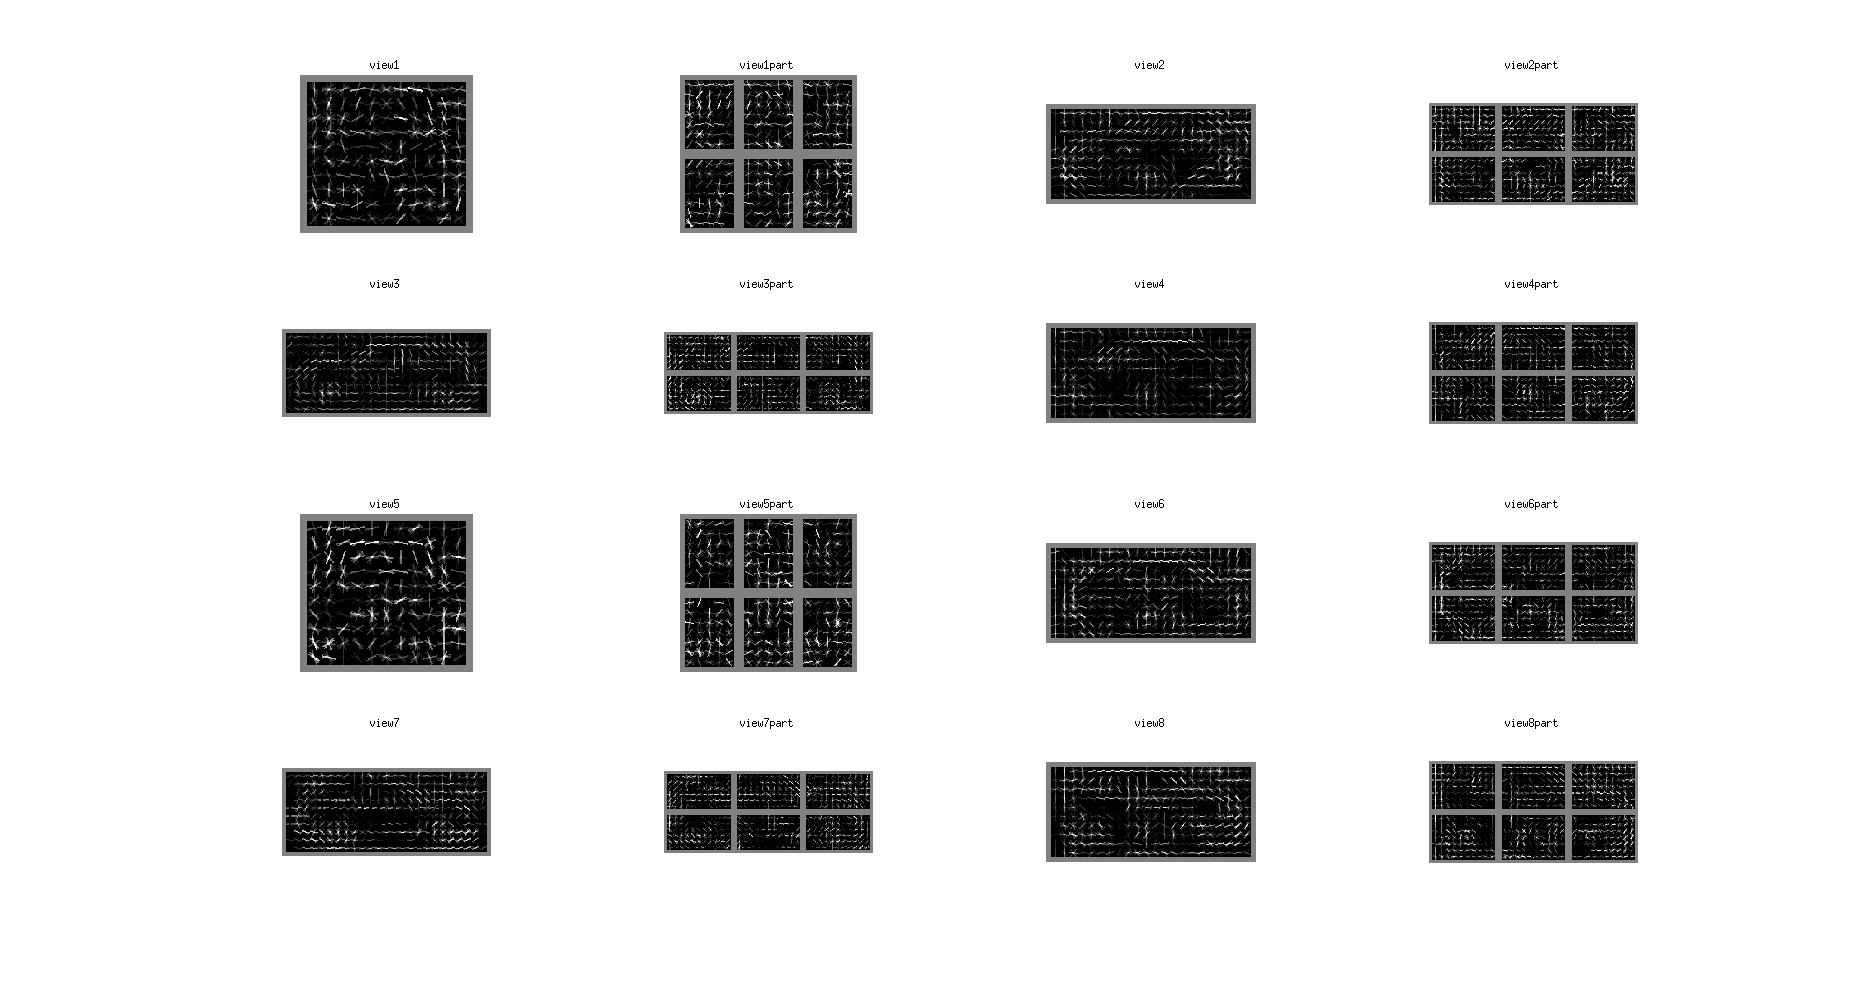
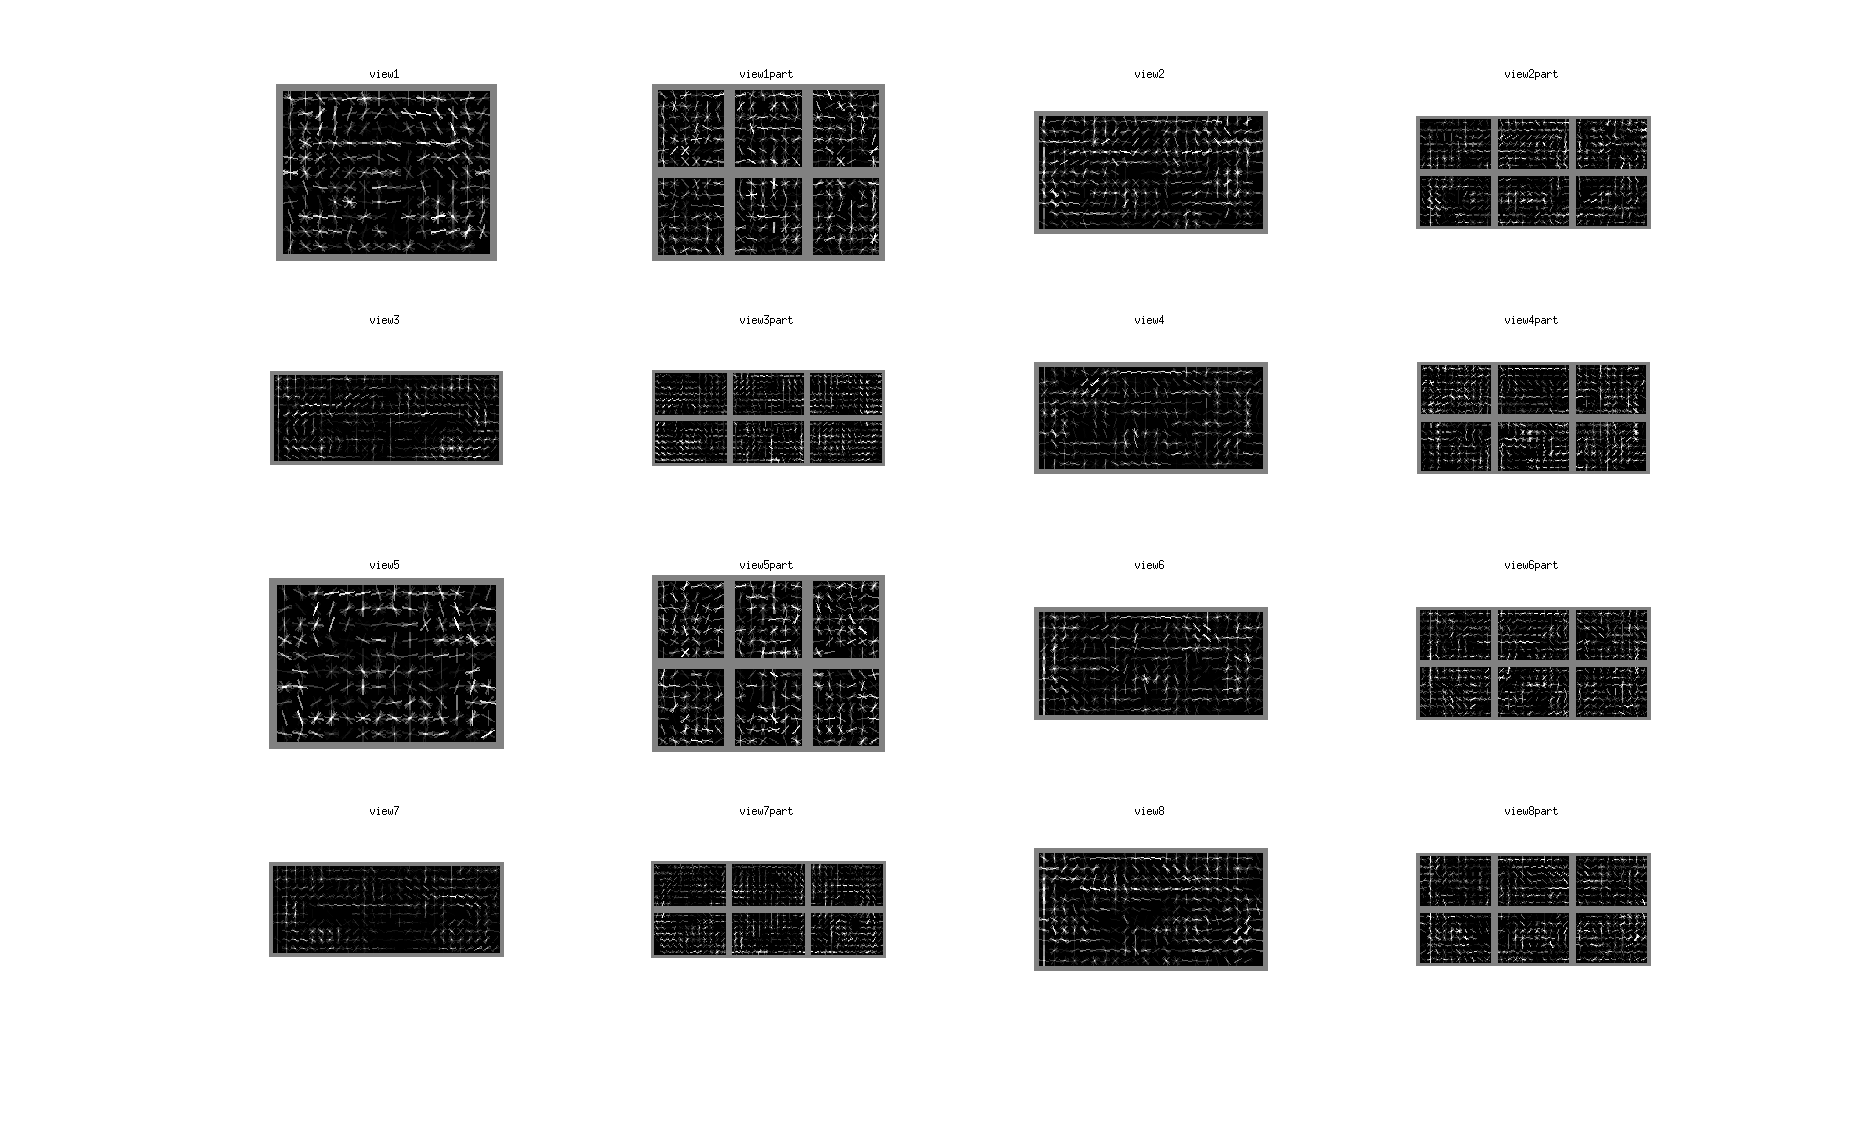
save constraints to one file and smaller templates

diff --git a/Main/model_train_voxel.m b/Main/model_train_voxel.m
@@ -51,11 +51,7 @@ neg = [];
 
 % write training samples to file
 fprintf('Writing wrapped positives\n');
-if is_flip
-    filename = sprintf('%s/%s_wrap_flip.dat', data_dir, cls_data);
-else
-    filename = sprintf('%s/%s_wrap.dat', data_dir, cls_data);
-end
+filename = sprintf('%s/%s_wrap.dat', data_dir, cls_data);
 write_data(filename, pos, neg);
 
 
@@ -75,17 +71,13 @@ neg = [];
 
 % write training samples to file
 fprintf('Writing unwrapped positives\n');
-if is_flip
-    filename = sprintf('%s/%s_unwrap_flip.dat', data_dir, cls_data);    
-else
-    filename = sprintf('%s/%s_unwrap.dat', data_dir, cls_data);
-end
+filename = sprintf('%s/%s_unwrap.dat', data_dir, cls_data);
 write_data(filename, pos, neg);
 
 
-% % sample negative training images for VOC pascal
+% sample negative training images for VOC pascal
 % fprintf('Randomize negative PASCAL samples\n');
-% maxnum = 96;
+% maxnum = inf;
 % neg = rand_negative(cls, maxnum);
 % fprintf('%d negative samples\n', numel(neg));
 %  
@@ -140,8 +132,8 @@ for i = 1:N
         % filtering objects
         if strcmp(cls, object.class) == 0 || object.viewpoint.distance == 0 || ...
                 (isfield(object, 'difficult') == 1 && object.difficult == 1) || ...
-                (isempty(subtype) == 0 && strcmp(object.subtype, subtype) == 0) || ...  
-                is_occld_trunc(object) == 1
+                (isempty(subtype) == 0 && strcmp(object.subtype, subtype) == 0)  
+%                 is_occld_trunc(object) == 1
 %                 is_trunc(object) == 1 || ...
 %                 object.viewpoint.distance > cads{1}.distance(end) || ...
 %                 object.viewpoint.distance < cads{1}.distance(1)           
@@ -208,20 +200,21 @@ for i = 1:N
         if is_wrap
             bbox = generate_bbox(cad, part2d, part_label);
         else
-            bbox = [object.bbox(1) object.bbox(2) object.bbox(3)-object.bbox(1) object.bbox(4)-object.bbox(2)];
+            bbox = [x1 y1 x2-x1 y2-y1];
         end
         
         % wrap positive
-        if is_wrap == 0 || is_occld_trunc(object) == 1
+        if is_wrap == 0
             im = I;
             sx = 1;
             sy = 1;
         else
-            padx = (object.bbox(3)-object.bbox(1)) / 10;
-            pady = (object.bbox(4)-object.bbox(2)) / 10;
-            sx = bbox(3) / (object.bbox(3)-object.bbox(1) + padx);
+            bbox_wrap = [x1 y1 x2 y2];
+            padx = (bbox_wrap(3)-bbox_wrap(1)) / 10;
+            pady = (bbox_wrap(4)-bbox_wrap(2)) / 10;
+            sx = bbox(3) / (bbox_wrap(3)-bbox_wrap(1) + padx);
             numcols = round(size(I,2) * sx);
-            sy = bbox(4) / (object.bbox(4)-object.bbox(2) + pady);
+            sy = bbox(4) / (bbox_wrap(4)-bbox_wrap(2) + pady);
             numrows = round(size(I,1) * sy);
             im = imresize(I, [numrows numcols], 'bilinear');
 

diff --git a/Struct_SVM/svm_struct_main.c b/Struct_SVM/svm_struct_main.c
@@ -52,7 +52,7 @@ int is_confile_same(char* confile_read, char* confile_write);
 int main (int argc, char* argv[])
 {
   FILE *fp;
-  int i, cad_num, iter, flag, num;
+  int i, cad_num, iter, num;
   char filename[256], filename_data[256];
   CAD **cads, *cad;
   SAMPLE sample, sample_negative;  /* training sample */
@@ -126,7 +126,7 @@ int main (int argc, char* argv[])
   }
   MPI_Barrier(MPI_COMM_WORLD);
 
-  sprintf(struct_parm.confile_write, "%s_wrap.con", struct_parm.cls);
+  sprintf(struct_parm.confile_write, "%s.con", struct_parm.cls);
   sprintf(filename, "%s_wrap.mod", struct_parm.cls);
   sprintf(filename_data, "tmp/wrap.dat");
 
@@ -180,7 +180,7 @@ int main (int argc, char* argv[])
   struct_parm.is_wrap = 0;
   for(iter = 0; iter < struct_parm.latent_positive; iter++)
   {
-    sprintf(struct_parm.confile_write, "%s_latent_%d.con", struct_parm.cls, iter);
+    sprintf(struct_parm.confile_write, "%s.con", struct_parm.cls);
     sprintf(filename, "%s_latent_%d.mod", struct_parm.cls, iter);
     sprintf(filename_data, "tmp/latent_%d.dat", iter);
 
@@ -236,7 +236,7 @@ int main (int argc, char* argv[])
   for(iter = 0; iter < struct_parm.hard_negative; iter++)
   {
     /* file name for constraints and model */
-    sprintf(struct_parm.confile_write, "%s_hard_%d.con", struct_parm.cls, iter);
+    sprintf(struct_parm.confile_write, "%s.con", struct_parm.cls);
     sprintf(filename, "%s_hard_%d.mod", struct_parm.cls, iter);
     sprintf(filename_data, "tmp/hard_%d.dat", iter);
 
@@ -278,15 +278,12 @@ int main (int argc, char* argv[])
         write_struct_model(modelfile, &structmodel, &struct_parm);
         printf("Train model hard iter %d/%d done\n", iter, struct_parm.hard_negative);
       }
-      flag = is_confile_same(struct_parm.confile_read, struct_parm.confile_write);
       strcpy(struct_parm.confile_read, struct_parm.confile_write);
       MPI_Barrier(MPI_COMM_WORLD);
         
       /* free the structmodel and samples */
       free_struct_model(structmodel);
       free_struct_sample(sample);
-      if(flag == 1)
-        break;
     }
   }
 

diff --git a/Main/display_result.m b/Main/display_result.m
@@ -1,9 +1,9 @@
 function display_result
 
 cls = 'car';
-cls_data = 'val';
-dat_file = sprintf('data/%s.tst', cls_data);
-pre_file = sprintf('data/%s.pre', cls_data);
+cls_data = 'car';
+dat_file = sprintf('data_debug/%s_unwrap.dat', cls_data);
+pre_file = sprintf('data_debug/%s_unwrap.pre', cls_data);
 
 % load cad model
 cad_file = sprintf('../Geometry/Voxel/%s.mat', cls);
@@ -46,7 +46,7 @@ for i = 1:N
     hold on;
 
     til = sprintf('%d: ', i);
-    for k = 1:min(2, num)
+    for k = 1:min(1, num)
         % get predicted bounding box
         bbox_pr = examples{k}.bbox;
         if example.object_label == 1

diff --git a/Geometry/Voxel/add_parts.m b/Geometry/Voxel/add_parts.m
@@ -18,8 +18,8 @@ cad.occ_per = 0.8;
 cad.azimuth = azimuth;
 cad.elevation = elevation;
 cad.distance = distance;
-cad.distance_front_root = find_distance_front(cad, 19);
-cad.distance_front_part = find_distance_front(cad, 13);
+cad.distance_front_root = find_distance_front(cad, 30);
+cad.distance_front_part = find_distance_front(cad, 20);
 
 % first try the whole object as a part
 view_num = cad.view_num;

diff --git a/Main/show_annotation_file.m b/Main/show_annotation_file.m
@@ -1,7 +1,7 @@
 % show image with annotation
 function show_annotation_file(cls)
 
-path_file = sprintf('data/%s_unwrap_flip.dat', cls);
+path_file = sprintf('data/%s_unwrap.dat', cls);
 
 % load CAD model
 object = load(sprintf('../Geometry/Voxel/%s.mat', cls));
